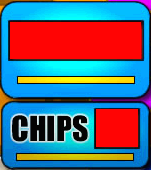
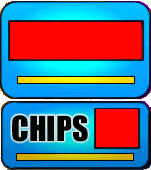
Added corner images and reveals

Changed region(s): [[0.0, 0.5294, 1.0, 1.0], [0.0, 0.0, 1.0, 0.0588], [0.9536, 0.9706, 1.0, 1.0]]

diff --git a/Plinko-V1.0/Game.cpp b/Plinko-V1.0/Game.cpp
@@ -51,7 +51,6 @@ bool checkForValidBinPosition(PlinkoChip testChip)
     return validXposition;
 }
 
-
 void gamefunc(char c)
 {
     int maxNumberOfChips=3;
@@ -60,21 +59,21 @@ void gamefunc(char c)
 
     int FRAME_RATE = 60;
     int window_width = 500;
-    int window_height = 700;
+    int window_height = 685;
     bool windowbound = true;
 
     // Create the main window
     sf::RenderWindow window(sf::VideoMode(window_width, window_height), "Plinko!!!");
     window.setPosition(sf::Vector2i(0,0));
 
-    //Background for gameboard. Still messing around with this...[Luke]
+//    Background for gameboard. Still messing around with this...[Luke]
     sf::Texture backgroundTexture;
     backgroundTexture.loadFromFile("Background.png");
     sf::Sprite backgroundSprite;
     backgroundSprite.setTexture(backgroundTexture);
     backgroundSprite.setColor(sf::Color::Red);
     backgroundSprite.setScale(1.7,1.7);
-    backgroundSprite.setColor(sf::Color(0, 0, 0, 255));
+    backgroundSprite.setColor(sf::Color(0, 0, 0, 0));
 
     // select the font
     sf::Font font;
@@ -121,6 +120,7 @@ void gamefunc(char c)
     sf::Texture texture;
     texture.loadFromFile("plinkoimage.png");
     testChip.setTexture(&texture);
+
     //sounds
     sf::Sound sound, selectionMusic, gamebeep, gamemusic;
     sf::SoundBuffer buffer, gameplayBuffer, beepBuffer, selectionBuffer;
@@ -135,24 +135,47 @@ void gamefunc(char c)
     gamemusic.play();
     gamemusic.setLoop(true);
     selectionMusic.play();
-
     // Load a sprite to display
-    sf::Texture texture2;
-    texture2.loadFromFile("scoreboard.png"); //put possible failure statement here
+    sf::Texture scoreboardTexture;
+    scoreboardTexture.loadFromFile("scoreboard.png"); //put possible failure statement here
+    sf::Texture britaTexture;
+    britaTexture.loadFromFile("brita.png");
+    sf::Texture mopTexture;
+    mopTexture.loadFromFile("LibmanMop.png");
+    sf::Texture leftPlinkoDoorTexture;
+    leftPlinkoDoorTexture.loadFromFile("leftplinkodoor.png");
+    sf::Texture rightPlinkoDoorTexture;
+    rightPlinkoDoorTexture.loadFromFile("rightplinkodoor.png");
 
-    sf::Sprite scoreboard(texture2);
-    scoreboard.setPosition(175,525);
+    sf::Sprite scoreboard(scoreboardTexture);
+    scoreboard.setPosition(175,510);
+
+    sf::Sprite brita(britaTexture);
+    brita.setPosition(175+150+10,513);
+    brita.setScale(.5,.5);
+
+    sf::Sprite leftPlinkoDoor(leftPlinkoDoorTexture);
+    leftPlinkoDoor.setPosition(5,513);
+    leftPlinkoDoor.setScale(.185,.17);
+
+    sf::Sprite mop(mopTexture);
+    mop.setPosition(5,525);
+    mop.setScale(.3,.4);
+
+    sf::Sprite rightPlinkoDoor(rightPlinkoDoorTexture);
+    rightPlinkoDoor.setPosition(175+150+10,513);
+    rightPlinkoDoor.setScale(.185,.17);
 
     string initialMoney=to_string(totalMoney);
 
     moneyText.setString("$"+initialMoney);
     moneyText.setColor(sf::Color::Black);
-    moneyText.setPosition(195,550);
+    moneyText.setPosition(195,535);
 
     string initalChips=to_string(maxNumberOfChips);
 
     chipText.setString(initalChips);
-    chipText.setPosition(283,638);
+    chipText.setPosition(283,623);
     chipText.setColor(sf::Color::Black);
 
 
@@ -192,7 +215,6 @@ void gamefunc(char c)
     allPegs.insert(allPegs.end(),binPegs.begin(),binPegs.end());
     allPegs.insert(allPegs.end(),boardPegs.begin(),boardPegs.end());
 ////////////////////////////////////////////////////////////////////////////////////////
-
 	// Start the game loop
     while (window.isOpen())
     {
@@ -244,8 +266,17 @@ void gamefunc(char c)
             window.draw(binMoney[i]);
 
         window.draw(scoreboard);
+        window.draw(brita);
+        window.draw(mop);
+        window.draw(leftPlinkoDoor);
+        window.draw(rightPlinkoDoor);
         window.draw(chipText);
         window.draw(moneyText);
+        if(testChip.getPosition().y>=485 && finishedDropping && leftPlinkoDoor.getPosition().x>-180)
+            {leftPlinkoDoor.move(-5,0);}
+        if(testChip.getPosition().y>=485 && finishedDropping && leftPlinkoDoor.getPosition().x ==-180 && rightPlinkoDoor.getPosition().x<500 && chipCount != 1)
+            {rightPlinkoDoor.move(5,0);}
+
 
         // Update the window
         window.display();
@@ -292,6 +323,7 @@ void gamefunc(char c)
                         if (getDistance(testChip.getNextPosition(),allPegs[j].getPosition())<=
                                 (testChip.getRadius()+allPegs[j].getRadius()))
                             {finishedDropping=0;}
+
                         else
                             finishedDropping=1;
                     }
@@ -338,6 +370,10 @@ void gamefunc(char c)
                             window.draw(scoreboard);
                             window.draw(chipText);
                             window.draw(moneyText);
+                            window.draw(brita);
+                            window.draw(mop);
+                            window.draw(leftPlinkoDoor);
+                            window.draw(rightPlinkoDoor);
                             // Update the window
                             window.display();
                             window.setFramerateLimit(FRAME_RATE);
@@ -427,6 +463,7 @@ void gamefunc(char c)
                 //Failsafe for if the chip lands incorrectly.
                 //This will prevent the next chip from being affected.
                 testChip.setVelocity(0,0);
+                selectionMusic.play();
             }
         }
     }

diff --git a/Plinko-V1.0/Menu.cpp b/Plinko-V1.0/Menu.cpp
@@ -271,10 +271,11 @@ void pausefunc(float width, float height, sf::RenderWindow &pausewindow, sf::Sou
     pauseitems.push_back("Main Menu");
     pauseitems.push_back("Quit");
 
-    Menu pausemenu(width, height, pauseitems.size());
-
+    Menu pausemenu(width, height, pauseitems.size(), sf::Color::Magenta, 24);
+//Menu::Menu(float width, float height, int num, sf::Color color = sf::Color::Magenta, unsigned int textsize = 30)
     for(int i = 0; i<pauseitems.size(); i++)
         {pausemenu.SetMenuItems(i, pauseitems[i]);};
+
 
     int mode = -1;
 	// Start the game loop
@@ -357,19 +358,31 @@ void winfunc(float width, float height, sf::RenderWindow &winwindow, char c, int
     sf::Texture scoreboardTexture;
     scoreboardTexture.loadFromFile("scoreboard.png"); //put possible failure statement here
     sf::Sprite scoreboard(scoreboardTexture);
-    scoreboard.setPosition(175,525);
+    scoreboard.setPosition(175,510);
     sf::Text chipText, moneyText;
 
     chipText.setFont(font);
     chipText.setCharacterSize(24);
     chipText.setColor(sf::Color::Black);
     chipText.setString(to_string(0));
-    chipText.setPosition(283,638);
+    chipText.setPosition(283,623);
 
     moneyText.setFont(font);
     moneyText.setCharacterSize(24);
     moneyText.setColor(sf::Color::Black);
-    moneyText.setPosition(195,550);
+    moneyText.setPosition(195,535);
+
+    sf::Texture rightPlinkoDoorTexture;
+    rightPlinkoDoorTexture.loadFromFile("rightplinkodoor.png");
+    sf::Sprite rightPlinkoDoor(rightPlinkoDoorTexture);
+    rightPlinkoDoor.setPosition(175+150+10,513);
+    rightPlinkoDoor.setScale(.185,.17);
+
+    sf::Texture leftPlinkoDoorTexture;
+    leftPlinkoDoorTexture.loadFromFile("leftplinkodoor.png");
+    sf::Sprite leftPlinkoDoor(leftPlinkoDoorTexture);
+    leftPlinkoDoor.setPosition(5,513);
+    leftPlinkoDoor.setScale(.185,.17);
 
     vector<string> winitems;
     winitems.push_back("Play Again");
@@ -594,6 +607,7 @@ int usrcount = 0;
 winwindow.draw(scoreboard);
 winwindow.draw(moneyText);
 winwindow.draw(chipText);
+winwindow.draw(rightPlinkoDoor);
 //SLEEP METHOD END
 ////////////////////////////////////////////////////////////////////////////////////////////
         counter++;
@@ -609,6 +623,8 @@ winwindow.draw(chipText);
             {winwindow.draw(scores[i]);}
         if(!awaitNameEntry)
             {winmenu.draw(winwindow);}
+        if(awaitNameEntry)
+            {winwindow.draw(leftPlinkoDoor);}
         winwindow.display();
     }
     winmusic.stop();
